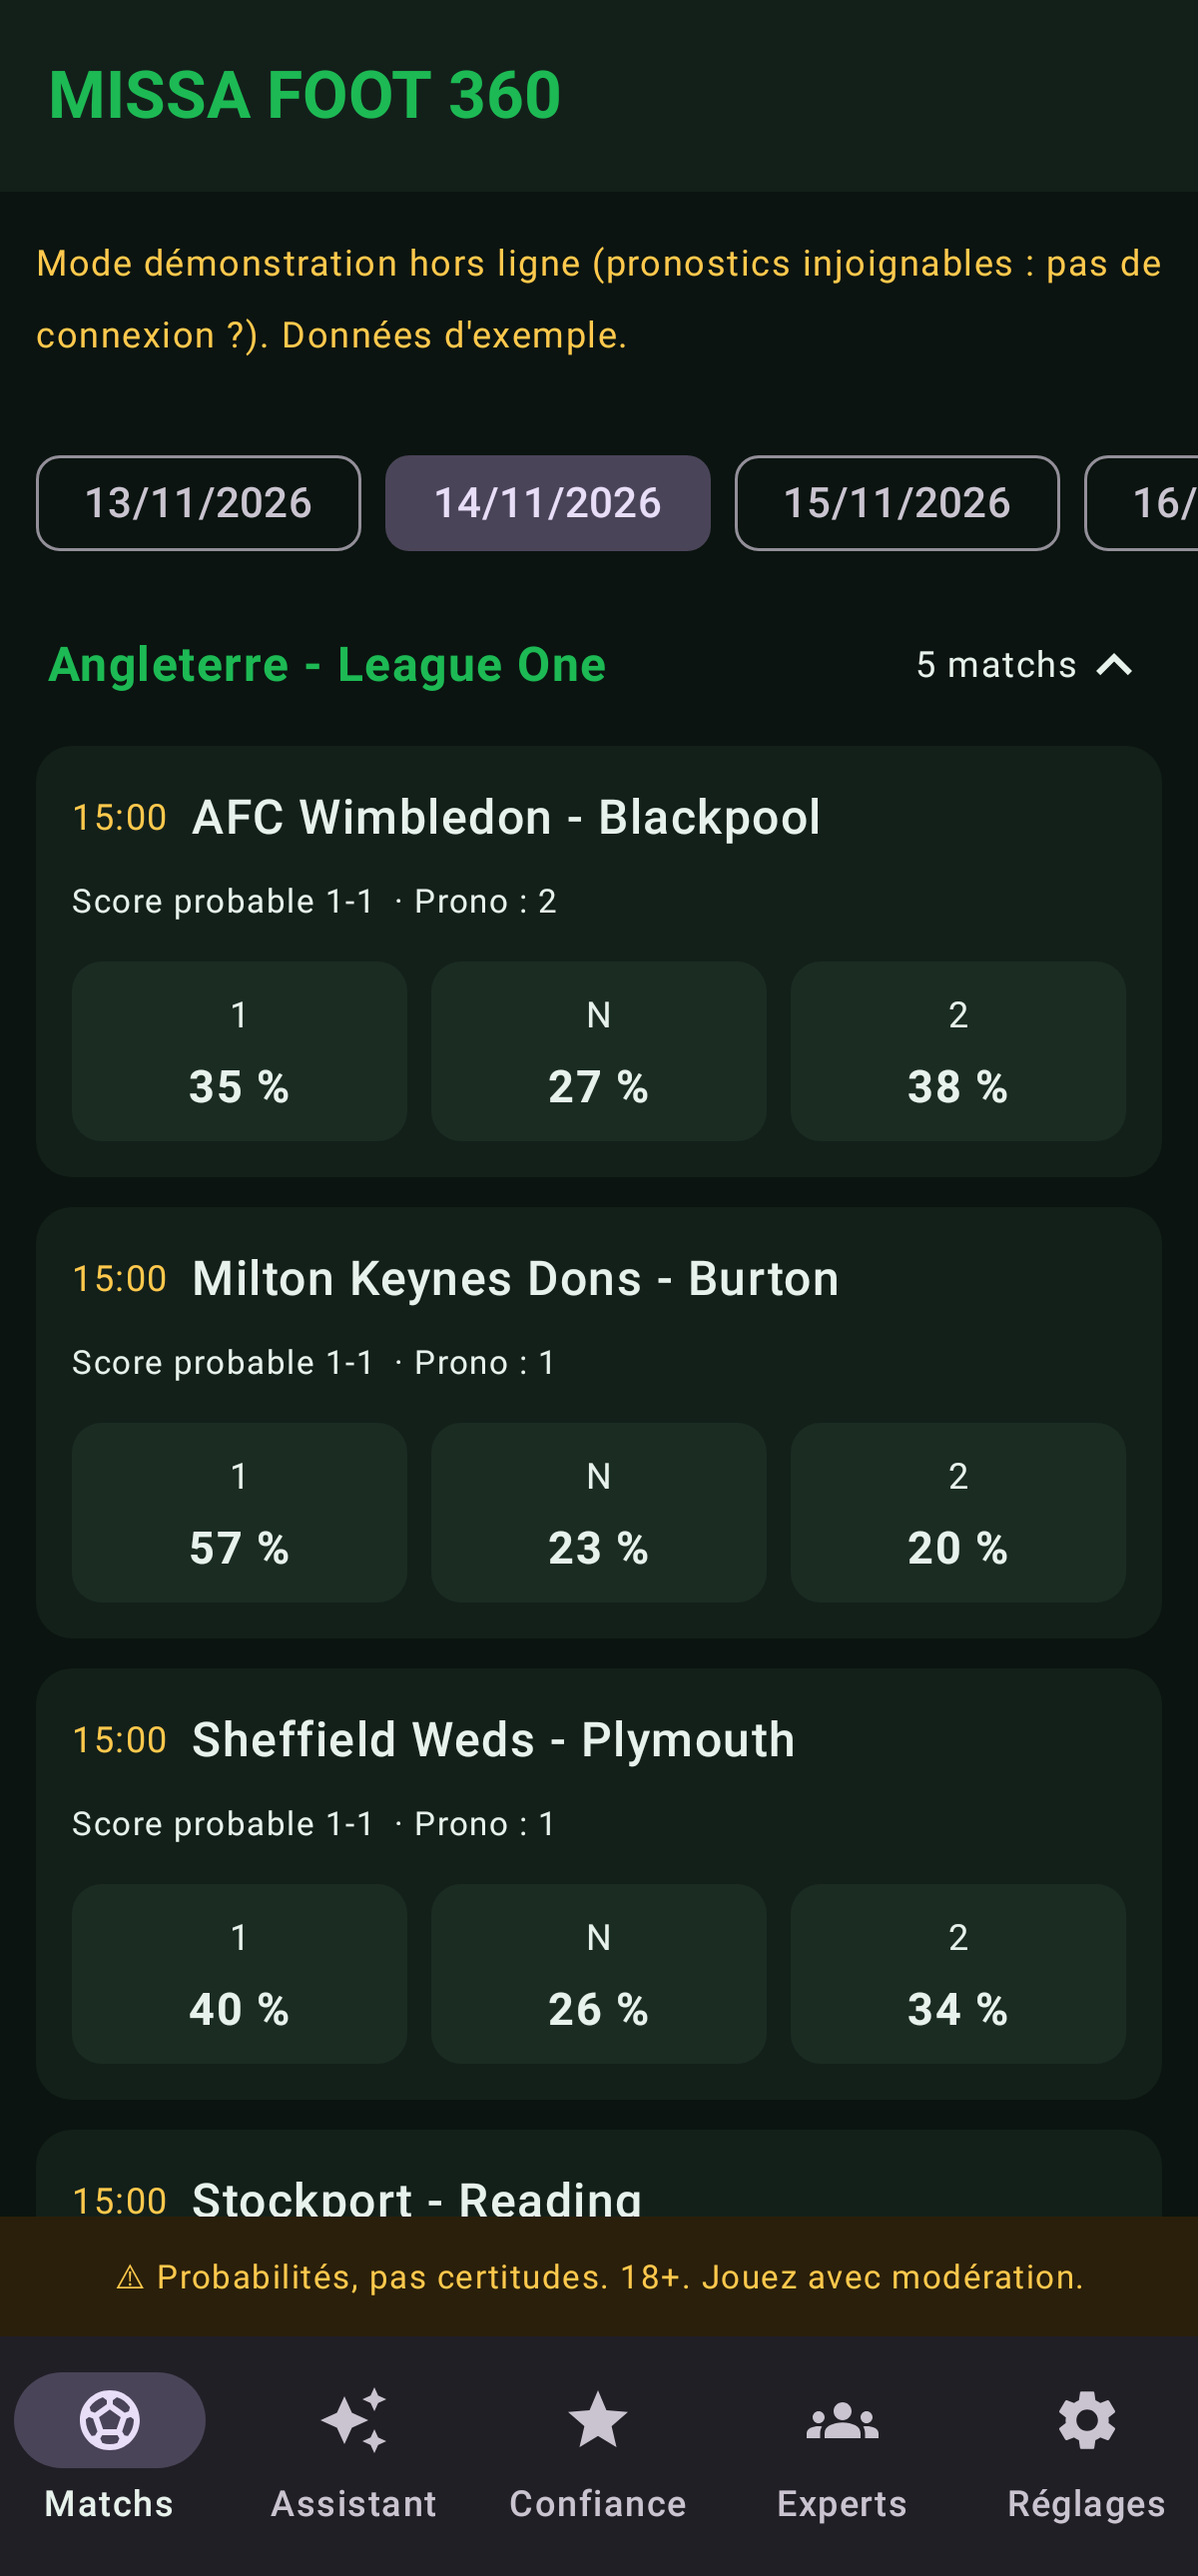
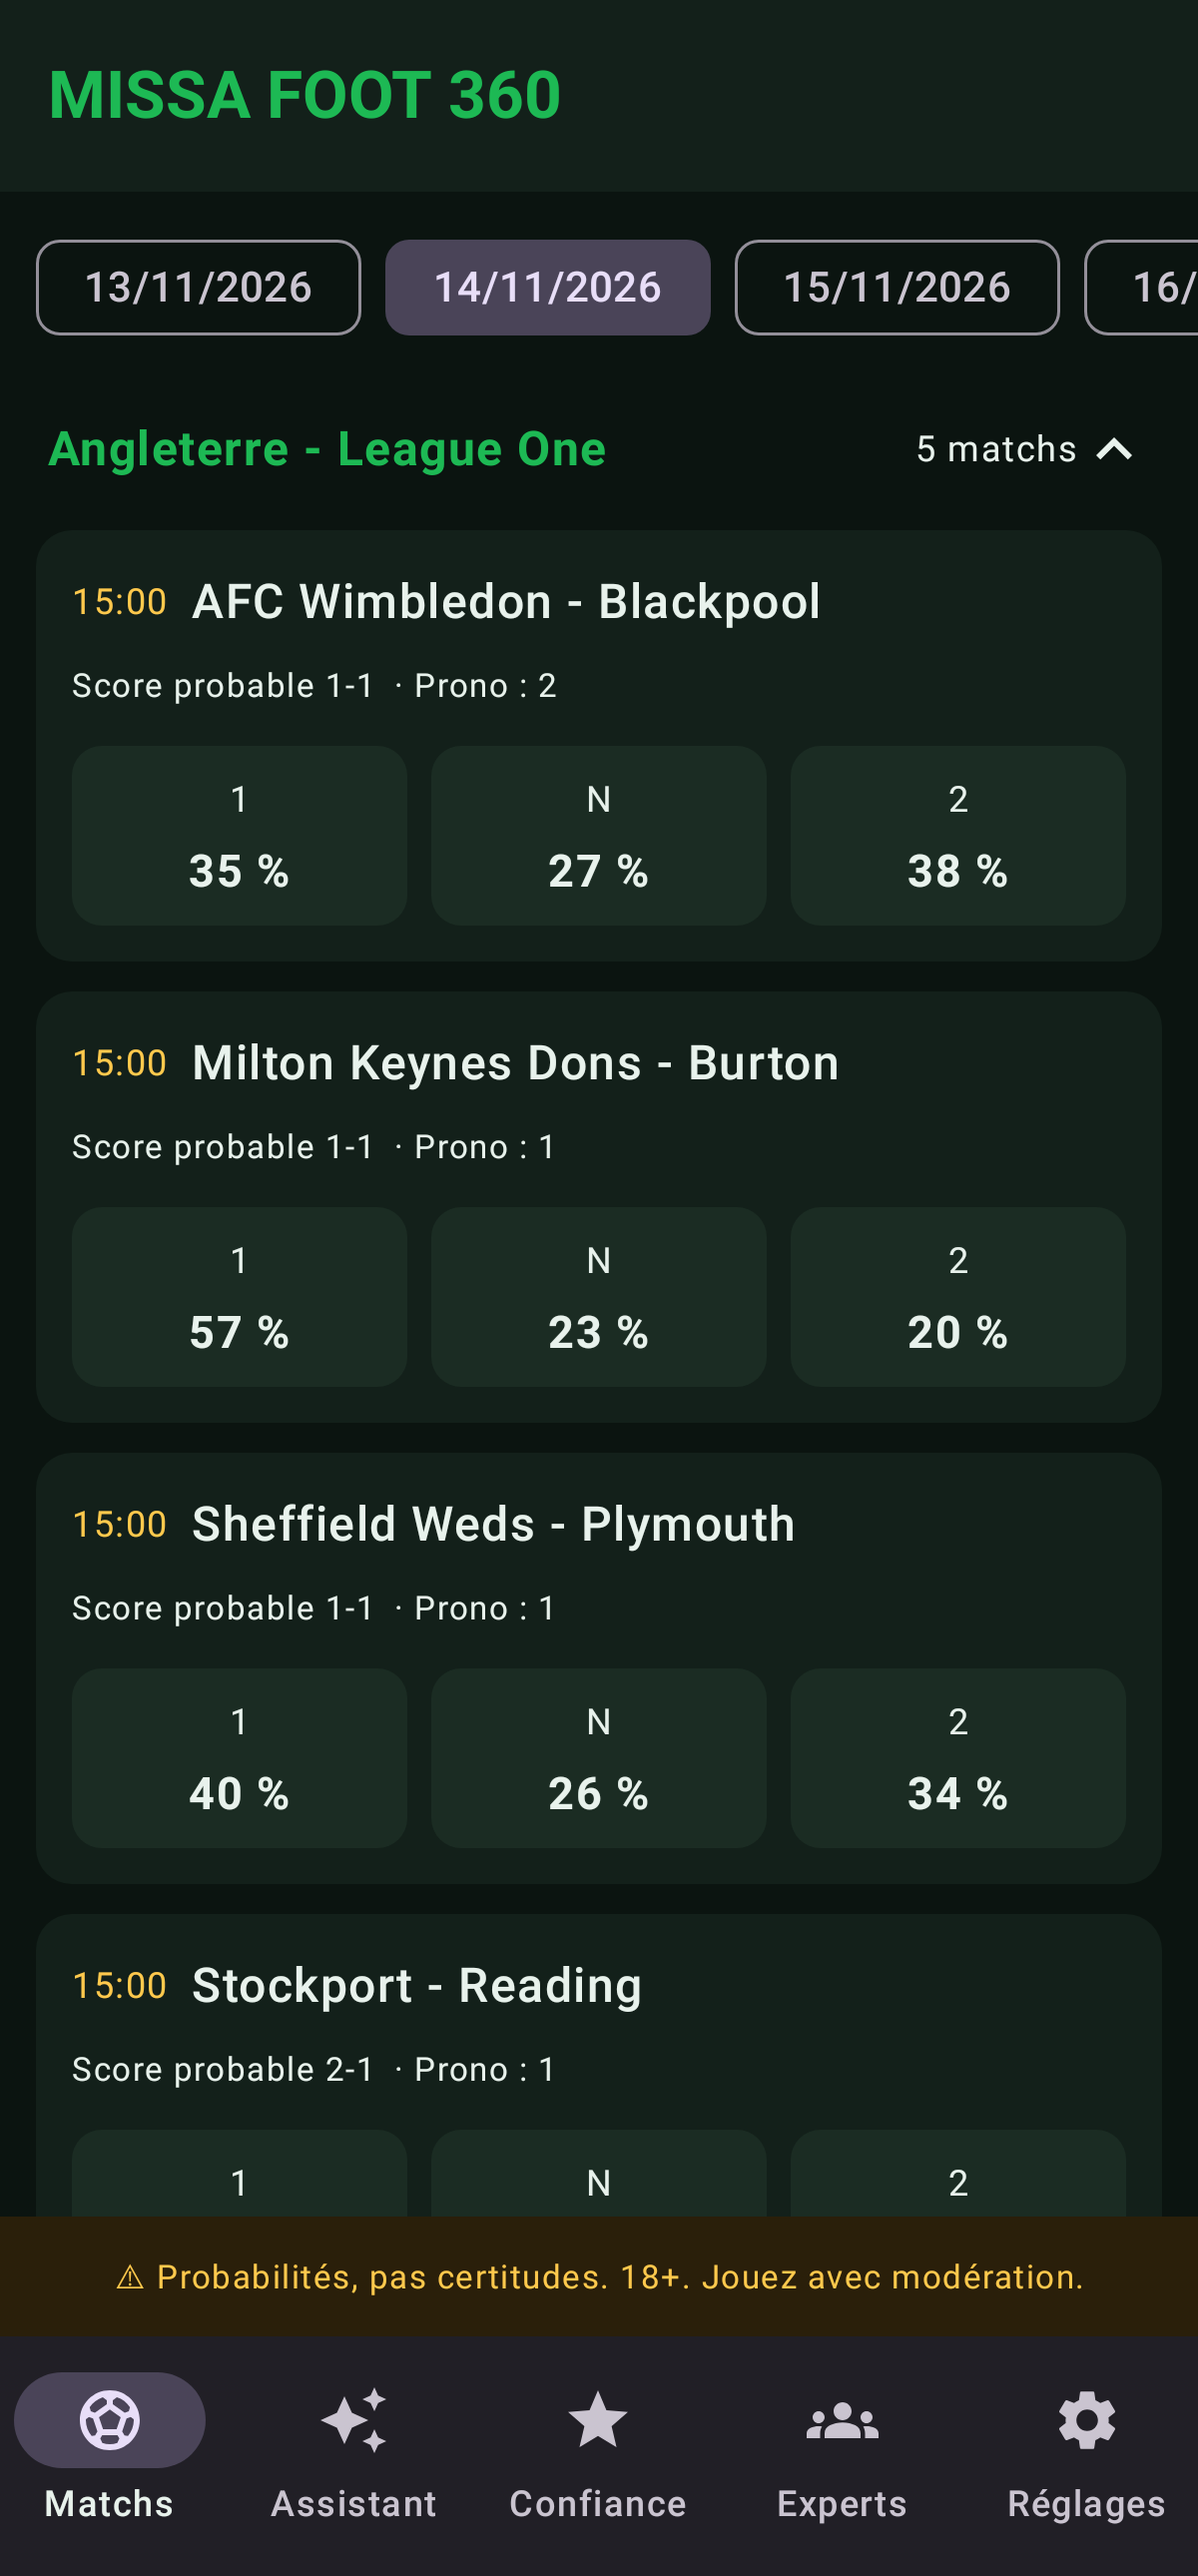
Publication : uniquement les matchs à venir ; message quand aucun match n'est publié
Claude-Session: https://claude.ai/code/session_01JzZ5bfRfBm6NJrwqaGBrNM

diff --git a/android/app/src/main/java/com/missa/foot360/ui/EcranMatchs.kt b/android/app/src/main/java/com/missa/foot360/ui/EcranMatchs.kt
@@ -60,6 +60,11 @@ fun EcranMatchs(etat: EtatApp, vm: AppViewModel, ouvrir: (String) -> Unit) {
     val replies = remember { mutableStateMapOf<String, Boolean>() }
 
     LazyColumn(contentPadding = PaddingValues(bottom = 90.dp)) {
+        if (!etat.horsLigne && dates.isEmpty()) item {
+            Text("Aucun match à venir n'est publié pour le moment. Les calendriers et les cotes sont " +
+                "mis à jour le mardi et le vendredi après-midi ; les pronostics sont recalculés " +
+                "automatiquement toutes les 3 heures.", fontSize = 13.sp, modifier = Modifier.padding(16.dp))
+        }
         if (etat.horsLigne) item {
             Text("Mode démonstration hors ligne (pronostics injoignables : pas de connexion ?). Données d'exemple.",
                 color = Or, fontSize = 12.sp, modifier = Modifier.padding(12.dp))

diff --git a/scripts/publier.py b/scripts/publier.py
@@ -74,6 +74,9 @@ def main():
         rapport_experts["clotures"] = cloturer(stockage)
 
     calendrier = donnees.charger_calendrier(a.calendrier)
+    # on ne publie que les matchs à venir (ou commencés depuis moins de 2 heures)
+    limite = pd.Timestamp.now(tz="Europe/London").tz_localize(None) - pd.Timedelta(hours=2)
+    calendrier = calendrier[calendrier["coup_envoi"].fillna(calendrier["date"]) >= limite]
     res = Moteur(stockage=stockage).predire(calendrier)
     nb = sum(len(c["matchs"]) for c in res["championnats"])
 
